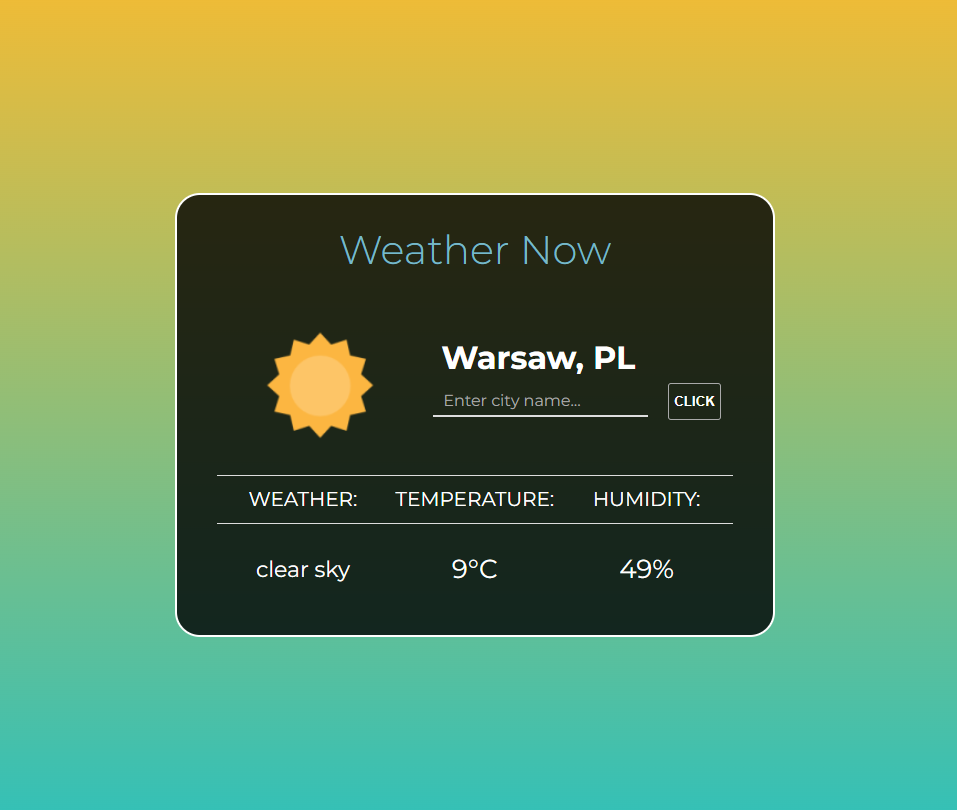
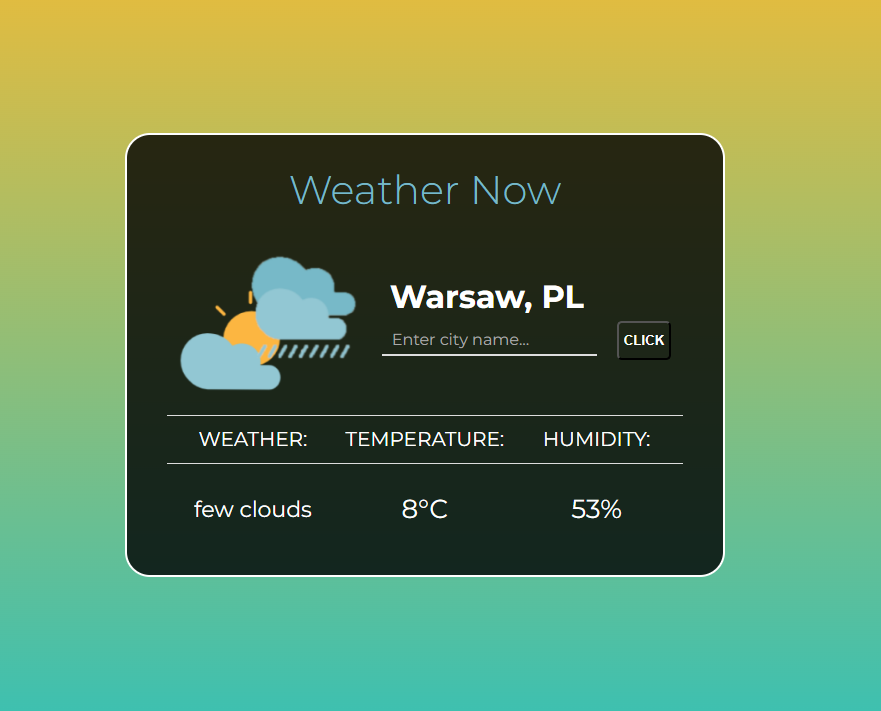
correct button

diff --git a/style.css b/style.css
@@ -43,8 +43,7 @@ button {
     color: #fff;
     font-weight: bold;
     background: none;
-    border-radius: 3px;
-    border: 0.5px solid darkgrey;
+    border-radius: 5px;
     text-transform: uppercase;
     cursor: pointer;
     transition: background-color .3s, color .3s;
